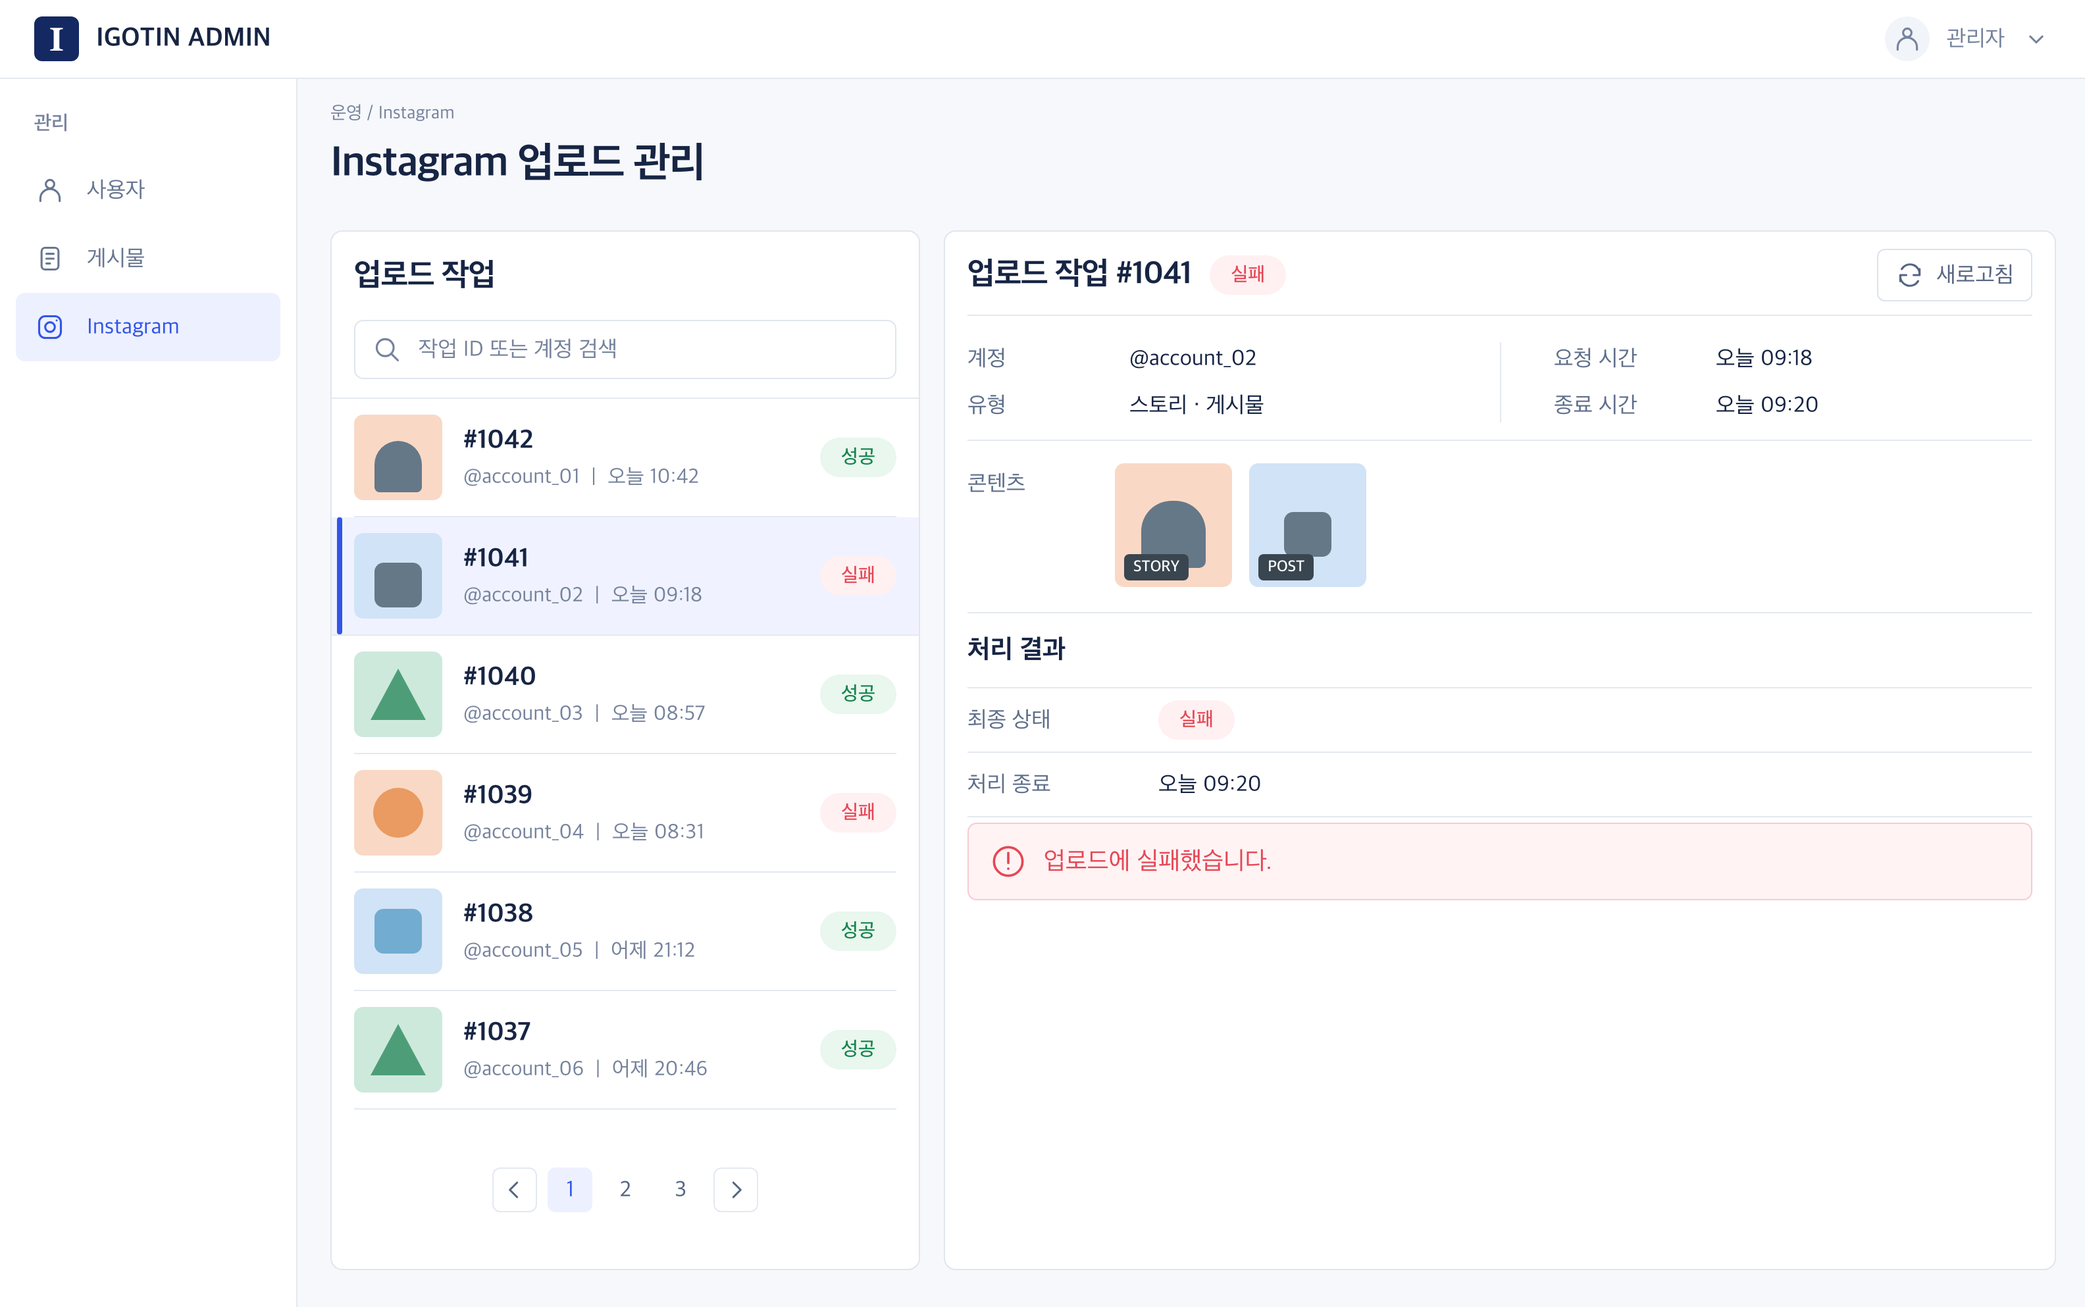
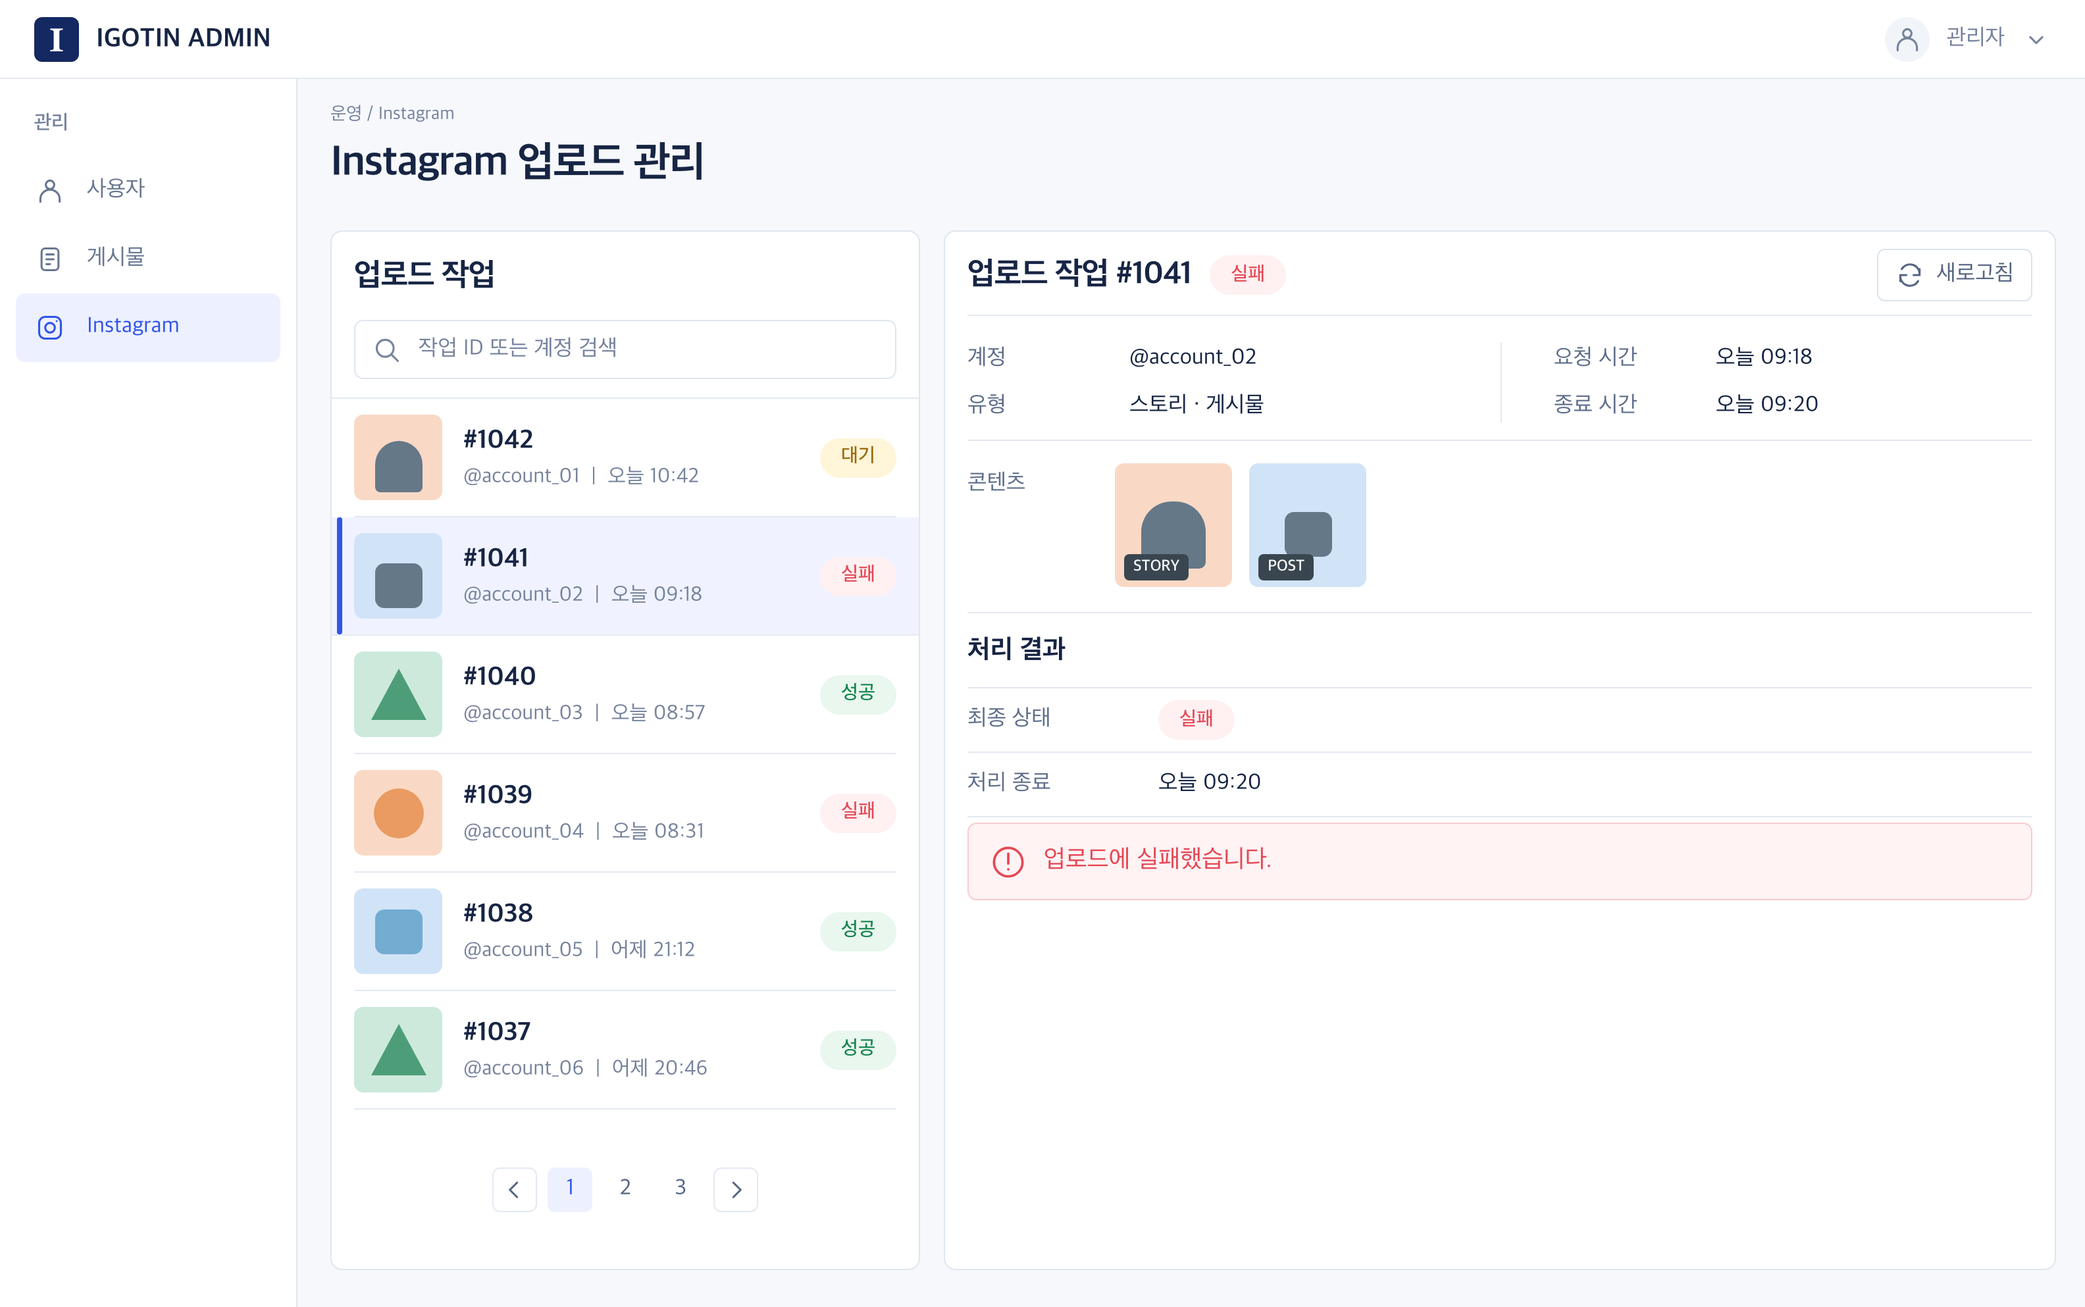
feat(portfolio): Instagram 작업 상태와 재시도 UI 예시 개선

diff --git a/tools/portfolio/archives/instagram-admin.html b/tools/portfolio/archives/instagram-admin.html
@@ -1,9 +1,21 @@
 <!doctype html>
+<!--
+  내부 디자인 원본. JS·외부 리소스 없이 HTML 하나로 전후 화면을 관리합니다.
+  보기: 주소 끝에 #before를 붙이면 개선 전, #after 또는 기본 주소는 개선 후.
+  캡처: macOS Chromium, 화면 1584 × 993, 배율 2 → PNG 3168 × 1986.
+  수정 후 AI에게 두 버전의 캡처를 요청하고 잘림을 확인합니다.
+  저장소 루트 기준 저장 경로:
+    #before → static/images/portfolio/portfolio-instagram-ui-before-v2.png
+    #after  → static/images/portfolio/portfolio-instagram-ui-after-v2.png
+  사이트에는 PNG만 표시하며, 이 HTML은 내부 아카이브로 유지합니다.
+  개선 전: 로그·재시도 기능 없이 실패 상태로 남아 개발자가 DB를 직접 수정해 롤백.
+  개선 후: 로그를 확인하고 실패 지점 또는 지정한 단계부터 재시도 가능.
+-->
 <html lang="ko">
 <head>
   <meta charset="utf-8">
   <meta name="viewport" content="width=device-width, initial-scale=1">
-  <title>Instagram 업로드 관리 — 포트폴리오 예시</title>
+  <title>Instagram 업로드 관리 — 전후 비교 예시</title>
   <style>
     * { box-sizing: border-box; }
     :root { color-scheme: light; --ink: #172544; --muted: #76839d; --line: #e4e9f1; --blue: #3155e7; --red: #e54855; }
@@ -65,23 +77,48 @@
     .previews .thumb { width: 89px; height: 94px; }
     .previews .arch { width: 49px; height: 51px; }
     .preview-label { position: absolute; bottom: 5px; left: 7px; color: #fff; background: #394650; padding: 1px 7px; border-radius: 4px; font-size: 12px; font-weight: 600; }
-    .section-head { display: flex; align-items: center; justify-content: space-between; height: 57px; border-bottom: 1px solid var(--line); }
     h3 { margin: 0; font-size: 20px; font-weight: 700; }
-    .actions { display: flex; gap: 10px; }
-    .actions button { font-size: 16px; }
-    .retry { color: #fff; border-color: var(--blue); background: var(--blue); }
+    .resume-controls { position: absolute; top: 8px; right: 10px; display: flex; align-items: center; gap: 7px; color: #687791; font-size: 12px; }
+    .resume-controls select { width: 145px; height: 27px; padding: 0 7px; border: 1px solid #dce3ee; border-radius: 5px; color: var(--ink); background: #fff; font: inherit; }
+    .retry { height: 27px; padding: 0 9px; gap: 5px; border-color: var(--blue); color: #fff; background: var(--blue); font-size: 12px; }
+    .retry svg { width: 18px; height: 18px; }
+    .log-title { border-bottom: 1px solid var(--line); padding-bottom: 7px; }
+    .logs { margin: 5px 0 0; font-size: 16px; color: #6d7c96; line-height: 23px; font-variant-numeric: tabular-nums; }
+    .log { display: grid; grid-template-columns: 115px 1fr; }
+    .log.error { color: var(--red); }
+    .pipeline { position: relative; margin: 18px 0 22px; padding: 52px 10px 20px; border: 1px solid var(--line); border-radius: 8px; background: #f8fafc; }
+    .pipeline-steps { display: grid; grid-template-columns: repeat(5, minmax(0, 1fr)); margin: 0; padding: 0; list-style: none; }
+    .pipeline-step { position: relative; display: flex; flex-direction: column; align-items: center; text-align: center; }
+    .pipeline-step:not(:last-child)::after { content: ""; position: absolute; top: 29px; left: calc(50% + 33px); width: calc(100% - 66px); border-top: 2px dashed #d6deea; }
+    .pipeline-step.done::after { border-top-style: solid; border-top-color: #a7d7bc; }
+    .pipeline-step.before-failure::after { border-top-color: #efb3bc; }
+    .step-icon { position: relative; z-index: 1; display: grid; place-items: center; width: 64px; height: 60px; border: 1.5px solid #dce3ee; border-radius: 14px; color: #8c99ad; background: #fff; }
+    .step-icon > svg { width: 28px; height: 28px; }
+    .done .step-icon { border-color: #95ceb0; color: #16844e; }
+    .failed .step-icon { border-color: #e96a78; color: var(--red); background: #fff6f7; box-shadow: 0 0 0 4px #fdecef; }
+    .skipped .step-icon { border-style: dashed; background: #f8fafc; }
+    .retry-count { position: absolute; top: -11px; right: -16px; display: inline-flex; align-items: center; gap: 4px; height: 22px; padding: 0 7px; border: 1px solid #dce3ee; border-radius: 12px; color: #687791; background: #fff; font-size: 11px; font-weight: 600; white-space: nowrap; font-variant-numeric: tabular-nums; }
+    .retry-count svg { width: 11px; height: 11px; }
+    .failed .retry-count { border-color: #efb3bc; color: #c73849; background: #fff0f2; }
+    .step-label { min-height: 38px; margin: 10px 0 4px; font-size: 15px; font-weight: 600; line-height: 19px; }
+    .optional-tag { display: inline-block; margin-left: 5px; padding: 0 4px; border: 1px solid #dce3ee; border-radius: 4px; color: var(--muted); font-size: 10px; font-weight: 500; line-height: 15px; vertical-align: 1px; }
+    .step-status { display: inline-flex; align-items: center; gap: 4px; height: 21px; color: #7c89a0; font-size: 12px; }
+    .step-status svg { width: 13px; height: 13px; }
+    .done .step-status { color: #16844e; }
+    .failed .step-status { color: #c73849; font-weight: 600; }
+    .section-head { display: flex; align-items: center; justify-content: space-between; height: 57px; border-bottom: 1px solid var(--line); }
     .result-row { display: grid; grid-template-columns: 145px 1fr; align-items: center; min-height: 49px; border-bottom: 1px solid var(--line); }
     .result-row .badge { justify-self: start; }
     .alert { display: flex; align-items: center; gap: 14px; height: 59px; margin: 4px 0 15px; padding: 0 17px; border: 1px solid #f7cbd0; border-radius: 7px; color: var(--red); background: #fff3f4; font-size: 19px; }
     .alert svg { width: 26px; height: 26px; }
-    .log-title { border-bottom: 1px solid var(--line); padding-bottom: 7px; }
-    .logs { margin: 5px 0 0; font-size: 16px; color: #6d7c96; line-height: 24.5px; font-variant-numeric: tabular-nums; }
-    .log { display: grid; grid-template-columns: 115px 1fr; }
-    .log.error { color: var(--red); }
-    body.before .after-only { display: none; }
+    .view-target { position: fixed; top: 0; left: 0; width: 0; height: 0; pointer-events: none; }
+    #before:not(:target) ~ main .before-only { display: none; }
+    #before:target ~ main .after-only { display: none; }
+    .pending { color: #9a690b; background: #fff5d9; }
   </style>
 </head>
 <body>
+  <span id="before" class="view-target" aria-hidden="true"></span>
   <svg class="symbols" aria-hidden="true"><defs>
     <symbol id="user" viewBox="0 0 24 24"><circle cx="12" cy="7" r="3.5"/><path d="M4 21v-2a8 8 0 0 1 16 0v2"/></symbol>
     <symbol id="post" viewBox="0 0 24 24"><rect x="5" y="3" width="14" height="18" rx="3"/><path d="M9 8h6M9 12h6M9 16h3"/></symbol>
@@ -92,6 +129,13 @@
     <symbol id="down" viewBox="0 0 24 24"><path d="m7 10 5 5 5-5"/></symbol>
     <symbol id="left" viewBox="0 0 24 24"><path d="m14 6-6 6 6 6"/></symbol>
     <symbol id="right" viewBox="0 0 24 24"><path d="m10 6 6 6-6 6"/></symbol>
+    <symbol id="check" viewBox="0 0 24 24"><path d="m5 12 4 4L19 6"/></symbol>
+    <symbol id="shield" viewBox="0 0 24 24"><path d="M12 3 4 6v6c0 4 8 9 8 9s8-5 8-9V6Z"/><path d="m8 12 3 3 5-6"/></symbol>
+    <symbol id="story" viewBox="0 0 24 24"><rect x="6" y="2" width="12" height="20" rx="3"/><path d="M10 5h4M11 19h2"/><path d="m10 9 5 3-5 3Z"/></symbol>
+    <symbol id="channel" viewBox="0 0 24 24"><rect x="3" y="4" width="18" height="13" rx="3"/><path d="M8 17v4l5-4M7 9h10M7 12h6"/></symbol>
+    <symbol id="mail" viewBox="0 0 24 24"><rect x="3" y="5" width="18" height="14" rx="3"/><path d="m4 7 8 6 8-6"/></symbol>
+    <symbol id="pause" viewBox="0 0 24 24"><path d="M9 6v12M15 6v12"/></symbol>
+    <symbol id="minus" viewBox="0 0 24 24"><path d="M6 12h12"/></symbol>
   </defs></svg>
   <header class="topbar"><div class="brand"><span class="brand-mark">I</span>IGOTIN ADMIN</div><div class="profile"><span class="avatar"><svg><use href="#user"/></svg></span>관리자<svg><use href="#down"/></svg></div></header>
   <aside class="sidebar"><p class="nav-label">관리</p><div class="nav-item"><svg><use href="#user"/></svg>사용자</div><div class="nav-item"><svg><use href="#post"/></svg>게시물</div><div class="nav-item active"><svg><use href="#instagram"/></svg>Instagram</div></aside>
@@ -100,19 +144,66 @@
     <div class="panels">
       <section class="panel list-panel">
         <div class="list-head"><h2>업로드 작업</h2><label class="search"><svg><use href="#search"/></svg><input aria-label="작업 검색" placeholder="작업 ID 또는 계정 검색" readonly></label></div>
-        <div id="jobs"></div>
+        <div>
+          <div class="job"><div class="thumb peach"><span class="shape arch"></span></div><div><strong>#1042</strong><div class="job-meta">@account_01 &nbsp;|&nbsp; 오늘 10:42</div></div><span class="badge pending">대기</span></div>
+          <div class="job selected"><div class="thumb sky"><span class="shape "></span></div><div><strong>#1041</strong><div class="job-meta">@account_02 &nbsp;|&nbsp; 오늘 09:18</div></div><span class="badge failure">실패</span></div>
+          <div class="job"><div class="thumb mint"><span class="shape triangle"></span></div><div><strong>#1040</strong><div class="job-meta">@account_03 &nbsp;|&nbsp; 오늘 08:57</div></div><span class="badge success">성공</span></div>
+          <div class="job"><div class="thumb peach"><span class="shape circle"></span></div><div><strong>#1039</strong><div class="job-meta">@account_04 &nbsp;|&nbsp; 오늘 08:31</div></div><span class="badge failure">실패</span></div>
+          <div class="job"><div class="thumb sky"><span class="shape square"></span></div><div><strong>#1038</strong><div class="job-meta">@account_05 &nbsp;|&nbsp; 어제 21:12</div></div><span class="badge success">성공</span></div>
+          <div class="job"><div class="thumb mint"><span class="shape triangle"></span></div><div><strong>#1037</strong><div class="job-meta">@account_06 &nbsp;|&nbsp; 어제 20:46</div></div><span class="badge success">성공</span></div>
+        </div>
         <nav class="pagination" aria-label="페이지"><button class="page-arrow" aria-label="이전"><svg><use href="#left"/></svg></button><button class="current">1</button><button>2</button><button>3</button><button class="page-arrow" aria-label="다음"><svg><use href="#right"/></svg></button></nav>
       </section>
       <section class="panel detail">
         <div class="detail-head"><h2>업로드 작업 #1041</h2><span class="badge failure">실패</span><button><svg><use href="#refresh"/></svg>새로고침</button></div>
         <div class="metadata"><dl><dt>계정</dt><dd>@account_02</dd><dt>유형</dt><dd>스토리 · 게시물</dd></dl><dl><dt>요청 시간</dt><dd>오늘 09:18</dd><dt>종료 시간</dt><dd>오늘 09:20</dd></dl></div>
         <div class="content"><span class="content-label">콘텐츠</span><div class="previews"><div class="thumb peach"><span class="shape arch"></span><span class="preview-label">STORY</span></div><div class="thumb sky"><span class="shape"></span><span class="preview-label">POST</span></div></div></div>
-        <div class="section-head"><h3>처리 결과</h3><div class="actions after-only"><button class="retry"><svg><use href="#refresh"/></svg>실패 지점부터 재시도</button></div></div>
-        <div class="result-row"><dt>최종 상태</dt><span class="badge failure">실패</span></div><div class="result-row"><dt>처리 종료</dt><span>오늘 09:20</span></div>
-        <div class="alert"><svg><use href="#alert"/></svg>업로드에 실패했습니다.</div>
+        <div class="section-head before-only"><h3>처리 결과</h3></div>
+        <div class="result-row before-only"><dt>최종 상태</dt><span class="badge failure">실패</span></div><div class="result-row before-only"><dt>처리 종료</dt><span>오늘 09:20</span></div>
+        <div class="alert before-only"><svg><use href="#alert"/></svg>업로드에 실패했습니다.</div>
+        <section class="pipeline after-only" aria-label="단계별 처리 상태">
+          <div class="resume-controls">
+            <label for="resume-from">시작 지점</label>
+            <select id="resume-from">
+              <option selected>실패 지점</option>
+              <option>업로드 제한 확인</option>
+              <option>인스타 스토리 업로드</option>
+              <option>인스타 포스팅 업로드</option>
+              <option>앱 채널 포스팅</option>
+              <option>이메일 전송</option>
+            </select>
+            <button class="retry" aria-label="선택한 지점부터 재시도" title="선택한 지점부터 재시도"><svg aria-hidden="true"><use href="#refresh"/></svg>재시도</button>
+          </div>
+          <ol class="pipeline-steps">
+            <li class="pipeline-step done">
+              <div class="step-icon"><svg aria-hidden="true"><use href="#shield"/></svg></div>
+              <p class="step-label">업로드 제한<br>확인</p>
+              <span class="step-status"><svg aria-hidden="true"><use href="#check"/></svg>완료</span>
+            </li>
+            <li class="pipeline-step done before-failure">
+              <div class="step-icon"><svg aria-hidden="true"><use href="#story"/></svg><span class="retry-count" aria-label="재시도 0회 / 최대 3회"><svg aria-hidden="true"><use href="#refresh"/></svg>0/3</span></div>
+              <p class="step-label">인스타 스토리<br>업로드</p>
+              <span class="step-status"><svg aria-hidden="true"><use href="#check"/></svg>완료</span>
+            </li>
+            <li class="pipeline-step failed">
+              <div class="step-icon"><svg aria-hidden="true"><use href="#instagram"/></svg><span class="retry-count" aria-label="재시도 3회 / 최대 3회"><svg aria-hidden="true"><use href="#refresh"/></svg>3/3</span></div>
+              <p class="step-label">인스타 포스팅<br>업로드</p>
+              <span class="step-status"><svg aria-hidden="true"><use href="#alert"/></svg>실패</span>
+            </li>
+            <li class="pipeline-step blocked">
+              <div class="step-icon"><svg aria-hidden="true"><use href="#channel"/></svg></div>
+              <p class="step-label">앱 채널<br>포스팅</p>
+              <span class="step-status"><svg aria-hidden="true"><use href="#pause"/></svg>미실행</span>
+            </li>
+            <li class="pipeline-step skipped">
+              <div class="step-icon"><svg aria-hidden="true"><use href="#mail"/></svg></div>
+              <p class="step-label">이메일 전송<span class="optional-tag">옵션</span></p>
+              <span class="step-status"><svg aria-hidden="true"><use href="#minus"/></svg>선택 안 함</span>
+            </li>
+          </ol>
+        </section>
         <section class="after-only"><h3 class="log-title">처리 로그</h3><div class="logs">
-          <div class="log"><time>09:18:02</time><span>처리를 시작했습니다.</span></div>
-          <div class="log"><time>09:18:11</time><span>콘텐츠 2개를 확인했습니다.</span></div>
+          <div class="log"><time>09:18:11</time><span>업로드 제한 확인을 완료했습니다.</span></div>
           <div class="log"><time>09:18:40</time><span>스토리 업로드를 완료했습니다.</span></div>
           <div class="log"><time>09:18:44</time><span>게시물 업로드를 진행합니다.</span></div>
           <div class="log"><time>09:19:04</time><span>응답 대기 시간이 초과되어 재시도합니다 (1/3).</span></div>
@@ -123,18 +214,5 @@
       </section>
     </div>
   </main>
-  <script>
-    // Capture with ?view=before or ?view=after at 1584 × 993 and device scale factor 2.
-    document.body.classList.toggle('before', new URLSearchParams(location.search).get('view') === 'before');
-    const jobs = [
-      ['1042', '01', '오늘 10:42', 'peach', 'arch', true],
-      ['1041', '02', '오늘 09:18', 'sky', '', false],
-      ['1040', '03', '오늘 08:57', 'mint', 'triangle', true],
-      ['1039', '04', '오늘 08:31', 'peach', 'circle', false],
-      ['1038', '05', '어제 21:12', 'sky', 'square', true],
-      ['1037', '06', '어제 20:46', 'mint', 'triangle', true]
-    ];
-    document.getElementById('jobs').innerHTML = jobs.map(([id, account, time, color, shape, success]) => `<div class="job ${id === '1041' ? 'selected' : ''}"><div class="thumb ${color}"><span class="shape ${shape}"></span></div><div><strong>#${id}</strong><div class="job-meta">@account_${account} &nbsp;|&nbsp; ${time}</div></div><span class="badge ${success ? 'success' : 'failure'}">${success ? '성공' : '실패'}</span></div>`).join('');
-  </script>
 </body>
 </html>

diff --git a/content/portfolio/igotin.md b/content/portfolio/igotin.md
@@ -65,7 +65,7 @@ return_anchor = "igotin"
 
 <figure class="portfolio-screenshot">
 <img src="/images/portfolio/portfolio-instagram-ui-after-v2.png" alt="Instagram 업로드 개선 후 단계별 상태와 오류 로그를 표시하는 관리자 화면 예시" width="1584" height="993">
-<figcaption><em>AI 생성 이미지, 회사의 자료를 사용하지 않았습니다.</em></figcaption>
+<figcaption><em>AI를 사용해 재구성한 예시 화면, 회사의 자료를 사용하지 않았습니다.</em></figcaption>
 </figure>
 
 관리자 기능의 백엔드 개선 과정은 [포트폴리오 본문](@/portfolio/_index.md#instagram-upload)에서 다루고 있습니다.
